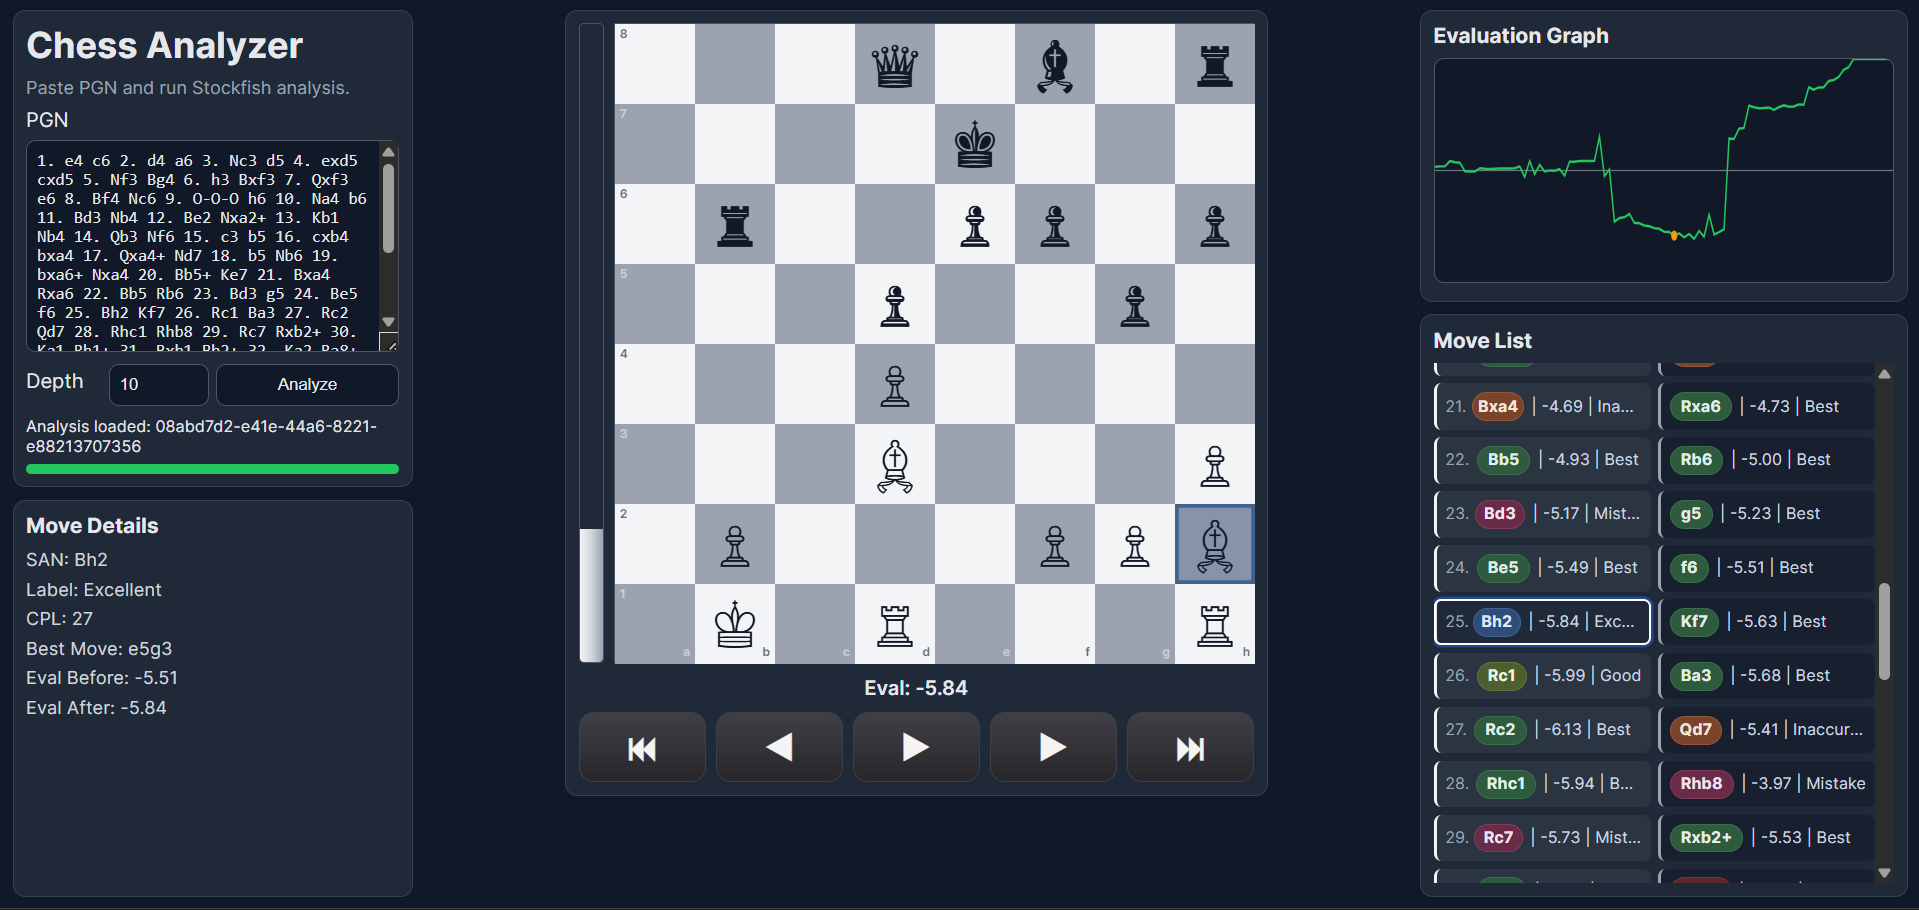
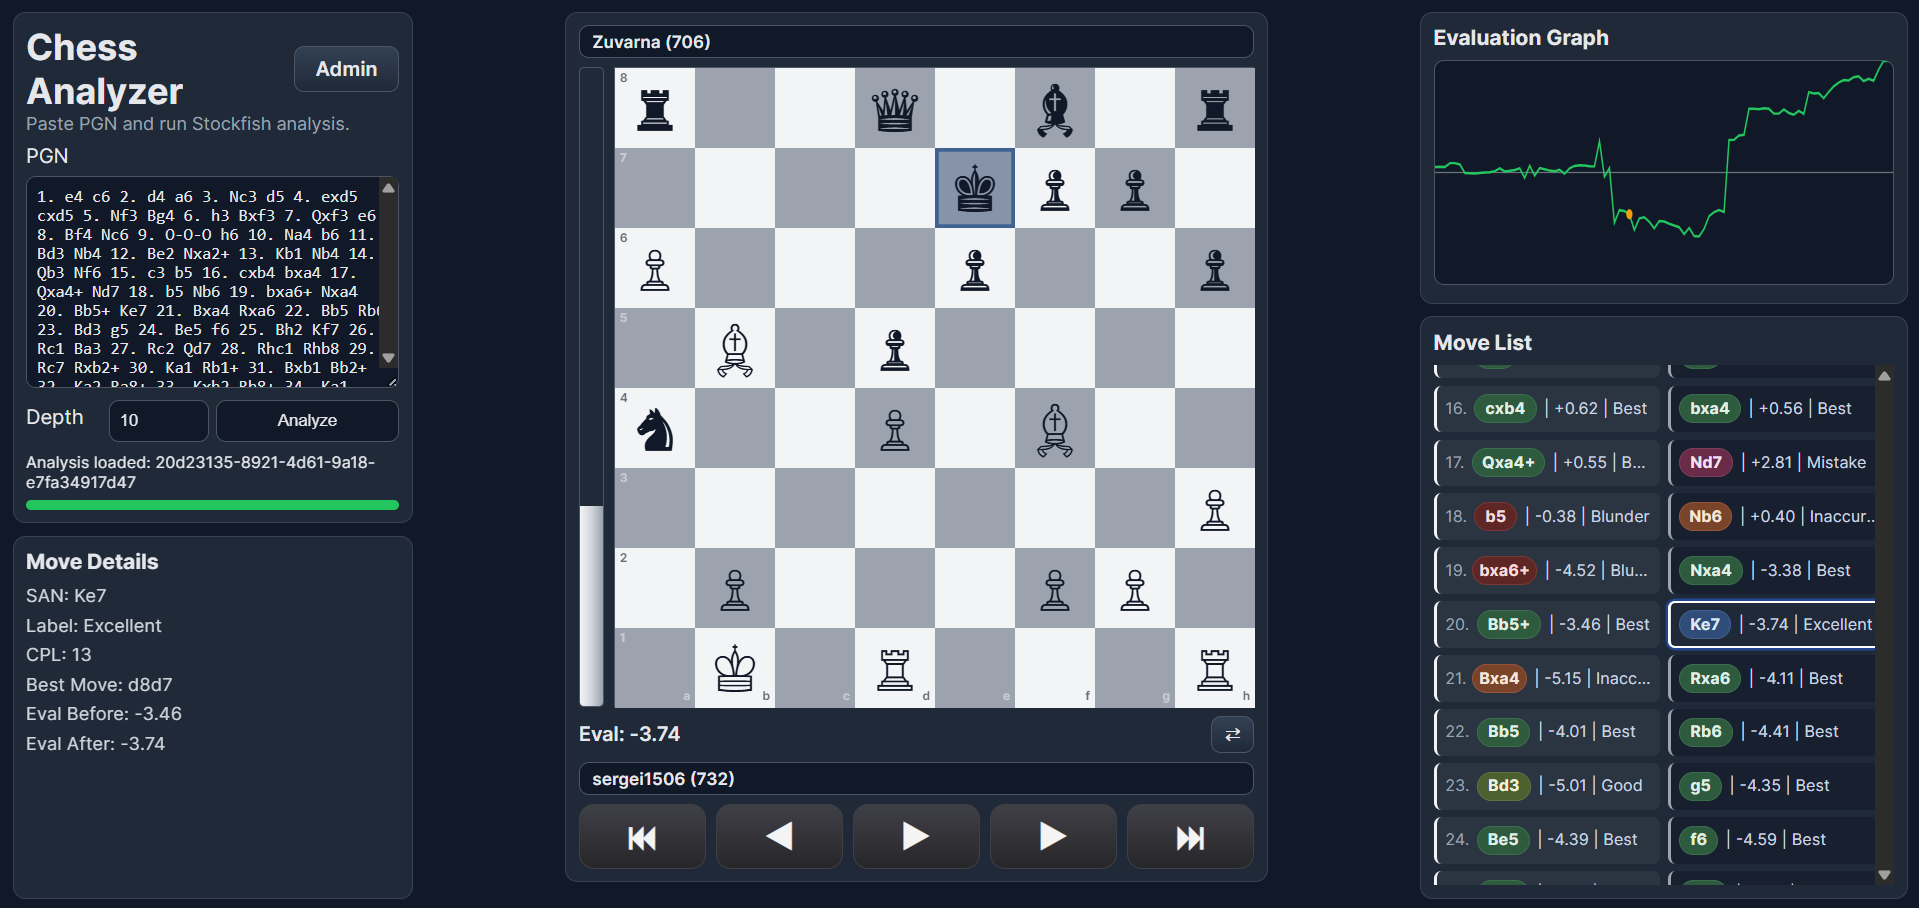
add layout screens

diff --git a/README.md b/README.md
@@ -2,7 +2,13 @@
 
 A Stockfish-powered chess game analyzer that evaluates every move from PGN, labels move quality, detects critical moments, and shows results in a web UI.
 
-![UI Preview](docs/ui.png)
+## Screenshots
+
+### Analysis UI
+![Analysis UI](docs/ui.png)
+
+### Admin Page
+![Admin Page](docs/admin.png)
 
 ![Build](https://img.shields.io/badge/build-passing-brightgreen)
 ![Version](https://img.shields.io/badge/version-0.1.0-blue)
@@ -16,6 +22,7 @@ A Stockfish-powered chess game analyzer that evaluates every move from PGN, labe
 - [Hello World](#hello-world)
 - [Features](#features)
 - [API Reference](#api-reference)
+- [Pages and Navigation](#pages-and-navigation)
 - [Frontend](#frontend)
 - [Development Commands](#development-commands)
 - [Troubleshooting](#troubleshooting)
@@ -140,8 +147,15 @@ curl http://localhost:3000/api/analyze/<jobId>/result
   - Fast pass for all moves
   - Deep pass for critical/high-CPL plies
 - FEN evaluation cache (hit/miss tracked)
-- In-memory async job orchestration with progress tracking
+- Async job orchestration with progress tracking
+- Persistent completed analyses by `jobId`
 - Web UI with board, move list, eval graph, and move details
+- Auto-redirect to `/analysis/:jobId` after analysis completion
+- Keyboard navigation in analysis viewer:
+  - `←` previous move
+  - `→` next move
+  - `Space` play/pause autoplay
+- Admin page with stored games list (sorted by date) and one-click review
 
 ---
 
@@ -186,18 +200,41 @@ Opens admin page listing stored analyzed games sorted by date.
 ### `GET /api/analysis/:jobId`
 Returns persisted completed analysis from local storage.
 
-### `GET /api/admin/games`
-Returns stored game list for admin page (players, result, moves, date), sorted by date descending.
-
 Returns:
 - `200` completed persisted result
 - `404` unknown `jobId`
 - `500` storage read/parse error
 
+### `GET /api/admin/games`
+Returns stored game list for admin page (players, result, moves, date), sorted by date descending.
+
+### `DELETE /api/admin/games/:jobId`
+Deletes a persisted stored game/analysis by `jobId`.
+
+Returns:
+- `200` `{ "ok": true, "jobId": "..." }`
+- `404` unknown `jobId`
+- `500` storage delete error
+
 Persisted analysis payload includes the original submitted PGN as `result.pgn`.
 
 Persisted files are stored at:
-- `storage/local/analyses/<jobId>.json`
+- `${ANALYSIS_STORAGE_DIR}/<jobId>.json`
+- default fallback: `storage/local/analyses/<jobId>.json`
+
+---
+
+## Pages and Navigation
+
+- `/` main analysis page for PGN input and starting new analysis jobs.
+- `/analysis/:jobId` analysis viewer page for a saved game.
+- `/admin` admin page with all persisted games.
+
+Analysis flow:
+1. Paste PGN on `/` and click **Analyze**.
+2. App creates async job via `POST /api/analyze`.
+3. UI polls status until completed.
+4. UI redirects to `/analysis/:jobId` and loads persisted result.
 
 ---
 
@@ -210,6 +247,9 @@ UI is served from `public/` and includes:
 - Move list with eval text on every move row
 - Eval graph over time
 - Move detail panel
+- Board flip support based on configured player color/viewer preference
+- Keyboard controls (`←`, `→`, `Space`) for move navigation/autoplay
+- Admin page actions: review game and delete persisted game
 
 Evaluation is updated after every step selection (Prev/Next or move click).
 
